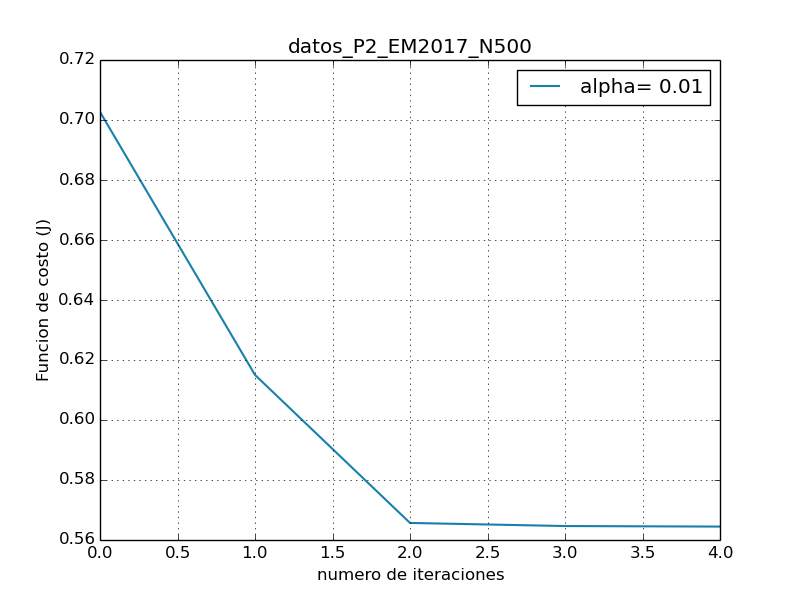
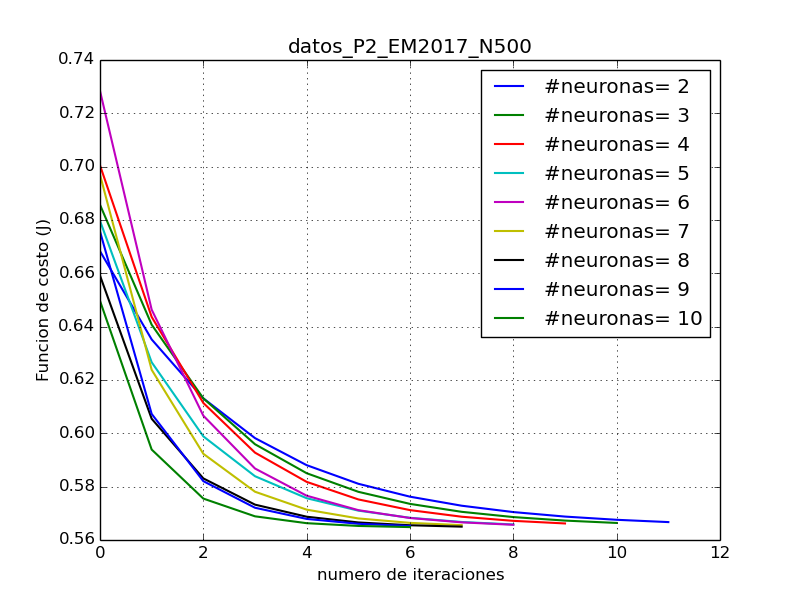
graficos de la 2

diff --git a/IA_II/proyecto2/question2.py b/IA_II/proyecto2/question2.py
@@ -63,7 +63,7 @@ def readData(dataSetName):
         @param color        : color of the line on the plot
 """
 def makeSimplePlot(iterations, costFunction, dsName, label, color):
-    plt.plot(iterations, costFunction, label='alpha= ' + str(label), c=color, linewidth=1.5)
+    plt.plot(iterations, costFunction, label='#neuronas= ' + str(label), linewidth=1.5)
     plt.xlabel("numero de iteraciones")
     plt.ylabel("Funcion de costo (J)")
     plt.title(dsName)
@@ -75,74 +75,101 @@ def main():
     data500 = readData('datosP2EM2017/datos_P2_EM2017_N500.txt')
     # print data500['x']
     # print data500['y']
-    neural = nn.NeuralNetwork(2, 2, 1)
-    h = neural.forwardPropagation(np.array([[0,0]]))
-    print h
-    b = neural.backPropagation(np.array([[0,0],[0,1],[1,0],[1,1]]), np.array([[1],[0], [0], [1]]))
-    print "ahhhhh"
-    print b
-    alpha = 0.01
-    g = neural.gradientDescent(alpha, np.array([[0,0],[0,1],[1,0],[1,1]]), np.array([[1],[0], [0], [1]]))
-    neural = nn.NeuralNetwork(len(data500['x'][0]), 2, 1)
-    result = neural.gradientDescent(alpha, data500['x'], data500['y'])
+    # neural = nn.NeuralNetwork(2, 2, 1)
+    # h = neural.forwardPropagation(np.array([[0,0]]))
+    # print h
+    # b = neural.backPropagation(np.array([[0,0],[0,1],[1,0],[1,1]]), np.array([[1],[0], [0], [1]]))
+    # print "ahhhhh"
+    # print b
+    alpha = 0.001
+    # g = neural.gradientDescent(alpha, np.array([[0,0],[0,1],[1,0],[1,1]]), np.array([[1],[0], [0], [1]]))
+    # neural = nn.NeuralNetwork(len(data500['x'][0]), 2, 1)
+    # result = neural.gradientDescent(alpha, data500['x'], data500['y'])
+    #
+    # # Simple plot: iterations vs cost function
+    # iterations = np.arange(0, result['nIterations'] + 1, 1)
+    # makeSimplePlot(iterations, result['costFunction'], "datos_P2_EM2017_N500", alpha, colors['blue'])
+    # plt.show()
+    print "--------------------------------------------------------------------------------"
+    for i in range(2, 11):
+        print "\t calculando thetas para datos_P2_EM2017_N500 con " + str(i) + " neuronas..."
+        neural = nn.NeuralNetwork(len(data500['x'][0]), i, 1)
+        result = neural.gradientDescent(alpha, data500['x'], data500['y'])
+        # Simple plot: iterations vs cost function
+        iterations = np.arange(0, result['nIterations'] + 1, 1)
+        makeSimplePlot(iterations, result['costFunction'], "datos_P2_EM2017_N500", i, colors['blue'])
 
-    # Simple plot: iterations vs cost function
-    iterations = np.arange(0, result['nIterations'] + 1, 1)
-    makeSimplePlot(iterations, result['costFunction'], "datos_P2_EM2017_N500", alpha, colors['blue'])
+    print "--------------------------------------------------------------------------------"
     plt.show()
 
-    # for i in range(2, 11):
-    #     nn = NeuralNetwork(len(data500['x'][0]), i, 1)
-    #     result = neural.gradientDescent(alpha, data500['x'], data500['y'])
-    #     # Simple plot: iterations vs cost function
-    #     iterations = np.arange(0, result['nIterations'] + 1, 1)
-    #     makeSimplePlot(iterations, result['costFunction'], "datos_P2_EM2017_N500", alpha, colors['blue'])
-    #     plt.show()
-    #
-    #
-    # dataG500 = readData('datosP2EM2017/datos_P2_Gen_500.txt')
-    # print dataG500['x']
-    # print dataG500['y']
-    #
-    # for i in range(2, 11):
-    #     nn = NeuralNetwork(len(dataG500['x']), i, 1)
-    #     # nn.training(dataG500['x'], dataG500['y'])
-    #
-    #
-    # data1000 = readData('datosP2EM2017/datos_P2_EM2017_N1000.txt')
-    # print data1000['x']
-    # print data1000['y']
-    #
-    # for i in range(2, 11):
-    #     nn = NeuralNetwork(len(data1000['x']), i, 1)
-    #     # nn.training(data1000['x'], data1000['y'])
-    #
-    # dataG1000 = readData('datosP2EM2017/datos_P2_Gen_1000.txt')
-    # print dataG1000['x']
-    # print dataG1000['y']
-    #
-    # for i in range(2, 11):
-    #     nn = NeuralNetwork(len(dataG1000['x']), i, 1)
-    #     # nn.training(dataG1000['x'], dataG1000['y'])
-    #
-    #
-    # data2000 = readData('datosP2EM2017/datos_P2_EM2017_N2000.txt')
-    # print data2000['x']
-    # print data2000['y']
-    #
-    # for i in range(2, 11):
-    #     nn = NeuralNetwork(len(data2000['x']), i, 1)
-    #     # nn.training(data2000['x'], data2000['y'])
-    #
-    #
-    # dataG2000 = readData('datosP2EM2017/datos_P2_Gen_2000.txt')
-    # print dataG2000['x']
-    # print dataG2000['y']
-    #
-    # for i in range(2, 11):
-    #     nn = NeuralNetwork(len(dataG2000['x']), i, 1)
-    #     # nn.training(dataG2000['x'], dataG2000['y'])
 
+    dataG500 = readData('datosP2EM2017/datos_P2_Gen_500.txt')
+
+    print "--------------------------------------------------------------------------------"
+    for i in range(2, 11):
+        print "\t calculando thetas para datos_P2_Gen_500 con " + str(i) + " neuronas..."
+        neural = nn.NeuralNetwork(len(dataG500['x'][0]), i, 1)
+        result = neural.gradientDescent(alpha, dataG500['x'], dataG500['y'])
+        # Simple plot: iterations vs cost function
+        iterations = np.arange(0, result['nIterations'] + 1, 1)
+        makeSimplePlot(iterations, result['costFunction'], "datos_P2_Gen_500", i, colors['blue'])
+
+    print "--------------------------------------------------------------------------------"
+    plt.show()
+
+
+    data1000 = readData('datosP2EM2017/datos_P2_EM2017_N1000.txt')
+
+    print "--------------------------------------------------------------------------------"
+    for i in range(2, 11):
+        print "\t calculando thetas para datos_P2_EM2017_N1000 con " + str(i) + " neuronas..."
+        neural = nn.NeuralNetwork(len(data1000['x'][0]), i, 1)
+        result = neural.gradientDescent(alpha, data1000['x'], data1000['y'])
+        # Simple plot: iterations vs cost function
+        iterations = np.arange(0, result['nIterations'] + 1, 1)
+        makeSimplePlot(iterations, result['costFunction'], "datos_P2_EM2017_N1000", i, colors['blue'])
+    print "--------------------------------------------------------------------------------"
+    plt.show()
+
+    dataG1000 = readData('datosP2EM2017/datos_P2_Gen_1000.txt')
+
+    print "--------------------------------------------------------------------------------"
+    for i in range(2, 11):
+        print "\t calculando thetas para datos_P2_Gen_1000 con " + str(i) + " neuronas..."
+        neural = nn.NeuralNetwork(len(dataG1000['x'][0]), i, 1)
+        result = neural.gradientDescent(alpha, dataG1000['x'], dataG1000['y'])
+        # Simple plot: iterations vs cost function
+        iterations = np.arange(0, result['nIterations'] + 1, 1)
+        makeSimplePlot(iterations, result['costFunction'], "datos_P2_Gen_1000", i, colors['blue'])
+    print "--------------------------------------------------------------------------------"
+    plt.show()
+
+
+    data2000 = readData('datosP2EM2017/datos_P2_EM2017_N2000.txt')
+
+    print "--------------------------------------------------------------------------------"
+    for i in range(2, 11):
+        print "\t calculando thetas para datos_P2_EM2017_N2000 con " + str(i) + " neuronas..."
+        neural = nn.NeuralNetwork(len(data2000['x'][0]), i, 1)
+        result = neural.gradientDescent(alpha, data2000['x'], data2000['y'])
+        # Simple plot: iterations vs cost function
+        iterations = np.arange(0, result['nIterations'] + 1, 1)
+        makeSimplePlot(iterations, result['costFunction'], "datos_P2_EM2017_N2000", i, colors['blue'])
+    print "--------------------------------------------------------------------------------"
+    plt.show()
+
+    dataG2000 = readData('datosP2EM2017/datos_P2_Gen_2000.txt')
+
+    print "--------------------------------------------------------------------------------"
+    for i in range(2, 11):
+        print "\t calculando thetas para datos_P2_Gen_2000 con " + str(i) + " neuronas..."
+        neural = nn.NeuralNetwork(len(dataG2000['x'][0]), i, 1)
+        result = neural.gradientDescent(alpha, dataG2000['x'], dataG2000['y'])
+        # Simple plot: iterations vs cost function
+        iterations = np.arange(0, result['nIterations'] + 1, 1)
+        makeSimplePlot(iterations, result['costFunction'], "datos_P2_Gen_2000", i, colors['blue'])
+    print "--------------------------------------------------------------------------------"
+    plt.show()
 # .----------------------------------------------------------------------------.
 
 if __name__ == '__main__':

diff --git a/IA_II/proyecto2/NeuralNetwork.py b/IA_II/proyecto2/NeuralNetwork.py
@@ -68,9 +68,9 @@ class NeuralNetwork:
         self.thetasH = np.random.rand(self.nO, self.nH) * 2 * ep - ep
         # self.thetasI = np.array([[-30, 20, 20],[10, -20, -20]])
         # self.thetasH = np.array([[-10, 20, 20]])
-        print "init"
-        print self.thetasI
-        print self.thetasH
+        # print "init"
+        # print self.thetasI
+        # print self.thetasH
 
     """
         Descripction: forward propagation for the neural network
@@ -213,17 +213,17 @@ class NeuralNetwork:
 
         # Calculate the initial cost.
         cos = self.cost(varList, resultList)
-        print "cos1"
-        print cos
+        # print "cos1"
+        # print cos
         JofTheta.append(cos)
 
         i = 0 # Initialize the counter of iterations.
         while (not(conv) and (i <= maxIter)):
             auxthetaI = self.thetasI
             auxthetaH = self.thetasH
-            print "before"
-            print auxthetaI
-            print auxthetaH
+            # print "before"
+            # print auxthetaI
+            # print auxthetaH
             # Get new thetas
             derivate = self.backPropagation(varList, resultList)
 
@@ -239,26 +239,26 @@ class NeuralNetwork:
             self.thetasI = auxthetaI - alpha * derivate[0]
             self.thetasH = auxthetaH - alpha * derivate[1]
 
-            print "after"
-            print self.thetasI
-            print self.thetasH
+            # print "after"
+            # print self.thetasI
+            # print self.thetasH
             newcost = self.cost(varList , resultList)
-            print "newcost"
-            print newcost
-            print "derivate"
-            print derivate[0]
-            print derivate[1]
+            # print "newcost"
+            # print newcost
+            # print "derivate"
+            # print derivate[0]
+            # print derivate[1]
             JofTheta.append(newcost)
 
             i = i + 1 # Update the actual number of iterations.
             if (abs(newcost - cos) <= 0.001):
                 conv = True
-                print "thetas"
-                print self.thetasI
-                print self.thetasH
+                # print "thetas"
+                # print self.thetasI
+                # print self.thetasH
 
-            print "dif cos"
-            print abs(newcost - cos)
+            # print "dif cos"
+            # print abs(newcost - cos)
             cos = newcost
 
 
